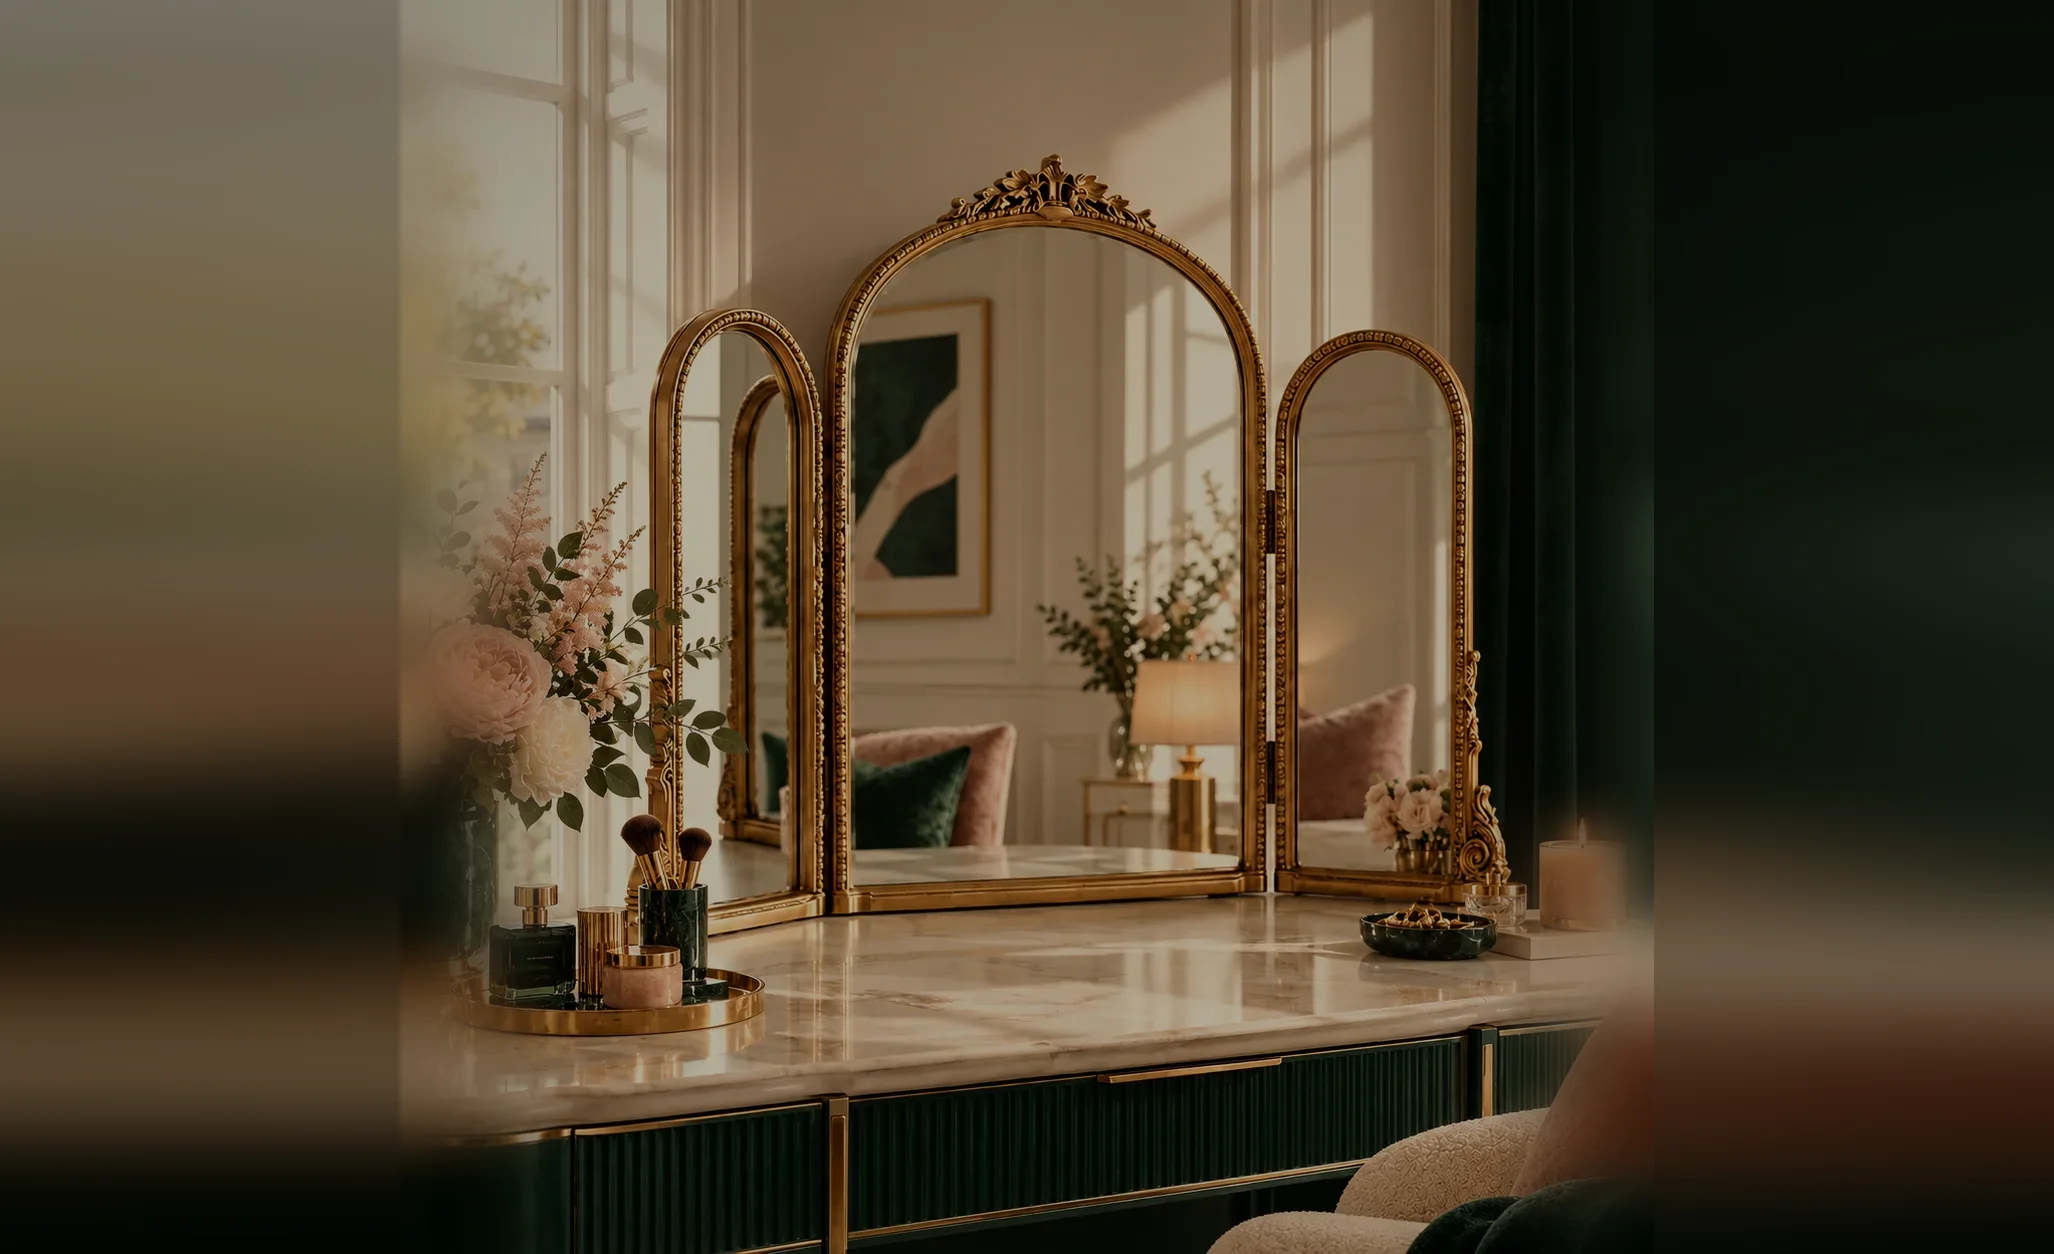
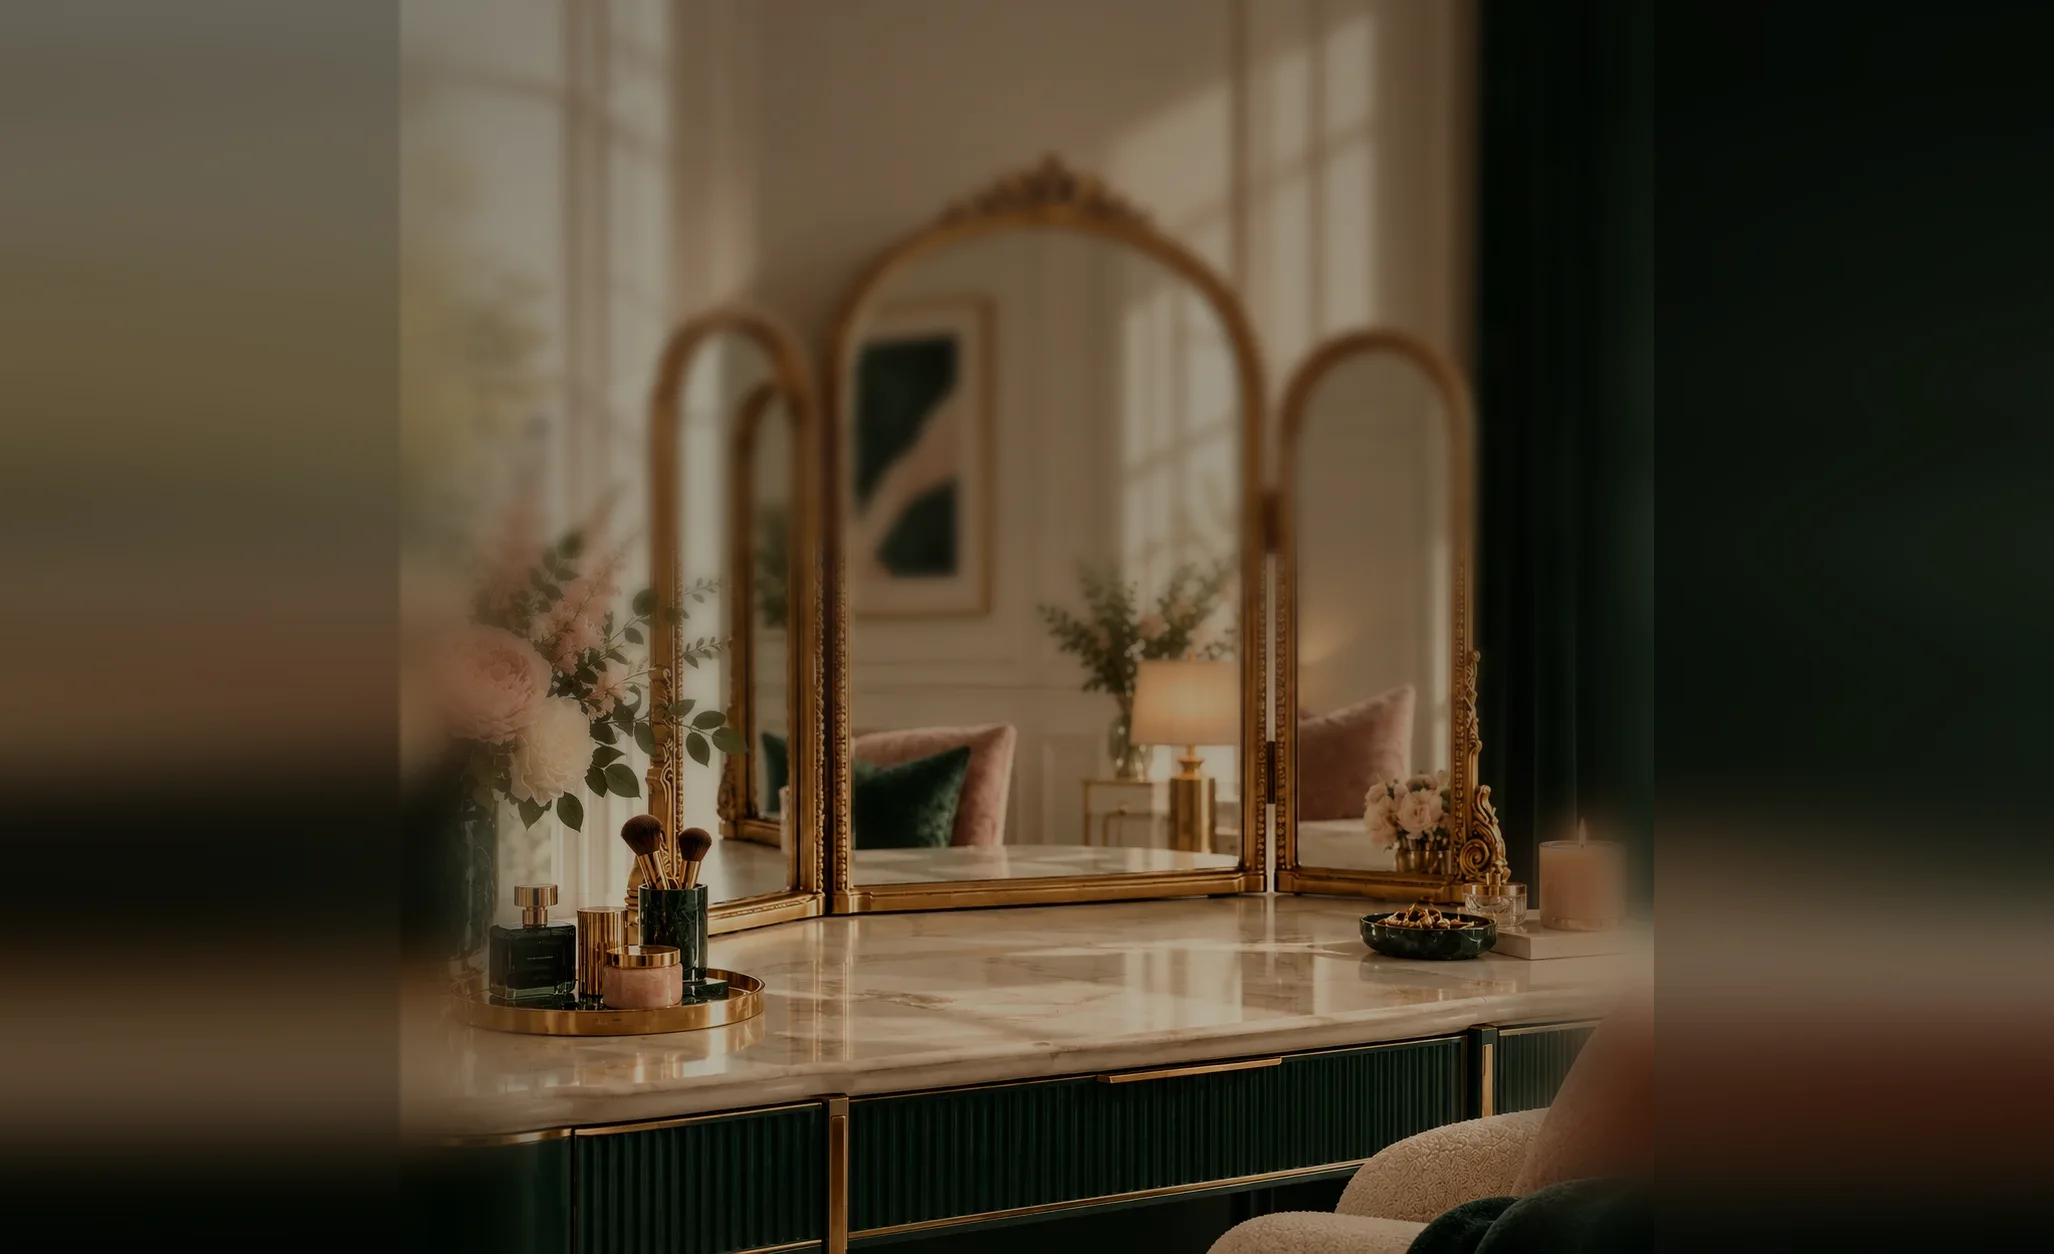
Room 03: the five stand on the lip of the counter
A shelf has one edge and one baseline. The pieces stand along the counter's
front edge — the one true horizontal in the photograph at the camera's
height — with the brass rail and the drawers beneath them. The plate is
bottom-anchored so that edge holds still at every viewport, and re-rendered
with the counter in focus and the room behind it soft.

Claude-Session: https://claude.ai/code/session_01UHywWBWijeakrXVtxrivXX

Changed region(s): [[0.2493, 0.0, 0.7478, 0.5909], [0.4674, 0.2799, 0.4985, 0.311]]

diff --git a/src/components/house/Vanity.tsx b/src/components/house/Vanity.tsx
@@ -32,22 +32,22 @@ type Slug = "opening-line" | "clean-break" | "hold-the-room" | "double-take" | "
 /* The cutouts, the step each product belongs to, its tick colour, and its
    height as a percentage of the tallest piece — so all five stand at one
    true scale. Heights measured from the cutouts themselves. */
-/* THE ARRANGEMENT — 12 Sept 2026. Five pieces in a row at one height is a
-   line-up, and on a table seen from a chair a line-up floats: the marble
-   recedes, so a thing further back stands higher in the frame and a little
-   smaller, a thing nearer stands lower and larger, and they overlap the way
-   objects on a real dressing table do. `pose` is each piece's place on the
-   marble: dx/dy nudge it across and toward the chair (dy in product units,
-   positive = nearer), depth scales it, z decides who stands in front. The
-   small eye cream comes forward where you would actually keep it; the two
-   cleansers stand back by the glass; the hero holds the middle. */
+/* THE ARRANGEMENT — 12 Sept 2026, and then again. A staggered still-life
+   across the marble was tried and Shelby was right that it did not sit: a
+   cutout standing mid-way across a receding plane has no edge to stand ON.
+   So the five stand along the LIP of the counter — its front edge, the one
+   line in the photograph that is a true horizontal at the camera's height —
+   like things set out on a shelf. One baseline, because a shelf has one.
+   `pose` keeps a little sideways breathing room (dx) and the stacking order
+   (z: the small pieces in front of the tall ones where they overlap). dy and
+   depth are held at 0 / 1 and left in the type for the day the room changes. */
 type Pose = { dx: string; dy: number; depth: number; z: number };
 const PIECES: Record<Slug, { src: string; step: string; tick: string; h: number; w: number; ph: number; pose: Pose }> = {
-  "opening-line":  { src: "/products/opening-line-vanity.webp",  step: "01 · Cleanse", tick: "#F7EFE8", h: 99.5,  w: 350, ph: 1199, pose: { dx: "6%",   dy: 3,   depth: 0.97, z: 3 } },
-  "clean-break":   { src: "/products/clean-break-vanity.webp",   step: "02 · Cleanse", tick: "#F7EFE8", h: 100,   w: 337, ph: 1205, pose: { dx: "-2%",  dy: -8,  depth: 0.90, z: 1 } },
-  "hold-the-room": { src: "/products/hold-the-room-vanity.webp", step: "03 · Treat",   tick: "#D8A7A0", h: 97.6,  w: 692, ph: 1176, pose: { dx: "0%",   dy: -1,  depth: 0.96, z: 2 } },
-  "double-take":   { src: "/products/double-take-vanity.webp",   step: "04 · Treat",   tick: "#D8A7A0", h: 63.3,  w: 729, ph: 763,  pose: { dx: "-10%", dy: 11,  depth: 1.06, z: 5 } },
-  "smooth-talker": { src: "/products/smooth-talker-vanity.webp", step: "05 · Finish",  tick: "#B08A64", h: 71.4,  w: 566, ph: 860,  pose: { dx: "0%",   dy: 6,   depth: 1.0,  z: 4 } },
+  "opening-line":  { src: "/products/opening-line-vanity.webp",  step: "01 · Cleanse", tick: "#F7EFE8", h: 99.5,  w: 350, ph: 1199, pose: { dx: "2%",   dy: 0, depth: 1, z: 3 } },
+  "clean-break":   { src: "/products/clean-break-vanity.webp",   step: "02 · Cleanse", tick: "#F7EFE8", h: 100,   w: 337, ph: 1205, pose: { dx: "-2%",  dy: 0, depth: 1, z: 1 } },
+  "hold-the-room": { src: "/products/hold-the-room-vanity.webp", step: "03 · Treat",   tick: "#D8A7A0", h: 97.6,  w: 692, ph: 1176, pose: { dx: "0%",   dy: 0, depth: 1, z: 2 } },
+  "double-take":   { src: "/products/double-take-vanity.webp",   step: "04 · Treat",   tick: "#D8A7A0", h: 63.3,  w: 729, ph: 763,  pose: { dx: "-4%",  dy: 0, depth: 1, z: 5 } },
+  "smooth-talker": { src: "/products/smooth-talker-vanity.webp", step: "05 · Finish",  tick: "#B08A64", h: 71.4,  w: 566, ph: 860,  pose: { dx: "2%",   dy: 0, depth: 1, z: 4 } },
 };
 
 const slugOf = (href: string): Slug => href.replace(/^\/products\//, "") as Slug;

diff --git a/src/components/house/vanity.module.css b/src/components/house/vanity.module.css
@@ -41,12 +41,21 @@
 
 .room {
   --ease: cubic-bezier(0.22, 0.61, 0.36, 1);
-  --unit: clamp(1.8px, 0.31vh, 3px); /* 1% of the tallest product — seated at the table, the pieces are nearer than her tray but not four times its size */
+  /* 1% of the tallest product. In vw, not vh, because the room photograph
+     covers by width and every feature in it — her tray, the lip of the
+     counter, her candle — scales with the viewport's width. Sized so the
+     pieces at the front of the counter read a little larger than her perfume
+     bottle mid-counter, which is what being nearer does. */
+  --unit: clamp(1.6px, 0.155vw, 3px);
   position: relative;
   isolation: isolate;
   height: clamp(640px, 92vh, 880px);
   overflow: hidden;
-  background: var(--color-night) url("/editorial/rooms/vanity-dressing-table.webp") 50% 58% / cover no-repeat;
+  /* Anchored to the BOTTOM, so the counter — the only part of the picture
+     the pieces touch — is always in the same place relative to the room's
+     floor whatever the viewport's height; a wide screen loses a little of the
+     mirror's crown rather than the counter's lip. */
+  background: var(--color-night) url("/editorial/rooms/vanity-dressing-table.webp") 50% 100% / cover no-repeat;
 }
 .room::before {
   content: "";
@@ -140,7 +149,12 @@
      height, which with the plate at 58% is ~21% up the room. */
   left: 38.5vw;
   width: 42vw;
-  bottom: 21%;
+  /* THE LIP. The counter's front edge is at 86.5% of the plate's height
+     (measured: marble ends and the fluted drawer front begins at y≈1085 of
+     1254 at the centre). Covering by width, the plate is 61.05vw tall and
+     bottom-anchored, so the lip sits 13.5% × 61.05vw = 8.24vw up from the
+     floor of the room. The pieces stand a hair behind it. */
+  bottom: 8.6vw;
   transform: none;
   display: grid;
   grid-template-columns: repeat(5, 1fr);
@@ -226,6 +240,7 @@
    foreshortened (a horizontal surface seen from a chair compresses it),
    dim, and gone within a third of its height */
 .mirror {
+  display: none; /* at the lip there is no marble in front of the base to reflect in */
   position: absolute;
   left: 0;
   top: 100%;

diff --git a/WORKLOG.md b/WORKLOG.md
@@ -1233,3 +1233,19 @@ and fit it into the atmosphere."
   sits on the clear marble between her tray (ends at 37.5vw) and the edge of
   the photograph (80.5vw), the last piece just in front of her candle.
   Verified 1280/1440/1920/390.
+- (third pass) Shelby: "just put it on a shelf … place each item on a counter
+  where it looks life-like." The staggered still-life did not sit either — a
+  cutout standing mid-way across a receding plane has no edge to stand on.
+  Now the five stand along the LIP of the counter: its front edge, the one
+  true horizontal in the photograph at the camera's height, brass rail and
+  fluted drawers directly beneath — a shelf, with a shelf's one baseline. The
+  plate is bottom-anchored so the lip is always at 8.6vw from the room's
+  floor (86.5% of a plate 61.05vw tall), and --unit is in vw so the pieces
+  scale with the photograph rather than the window height. The plate was
+  re-rendered with DEPTH OF FIELD — sharp from the counter's back edge down,
+  the mirror and the room behind softening toward the top and half a stop
+  darker — which is what a lens focused on the front of a table does and
+  which also means the mirror is no longer asked to reflect five things it
+  cannot. Marble reflections off (at the lip there is drawer front, not
+  marble, below the base); poses flattened to dx and z only; ground + cast
+  shadows kept. Verified 1280/1440/1920/390.
